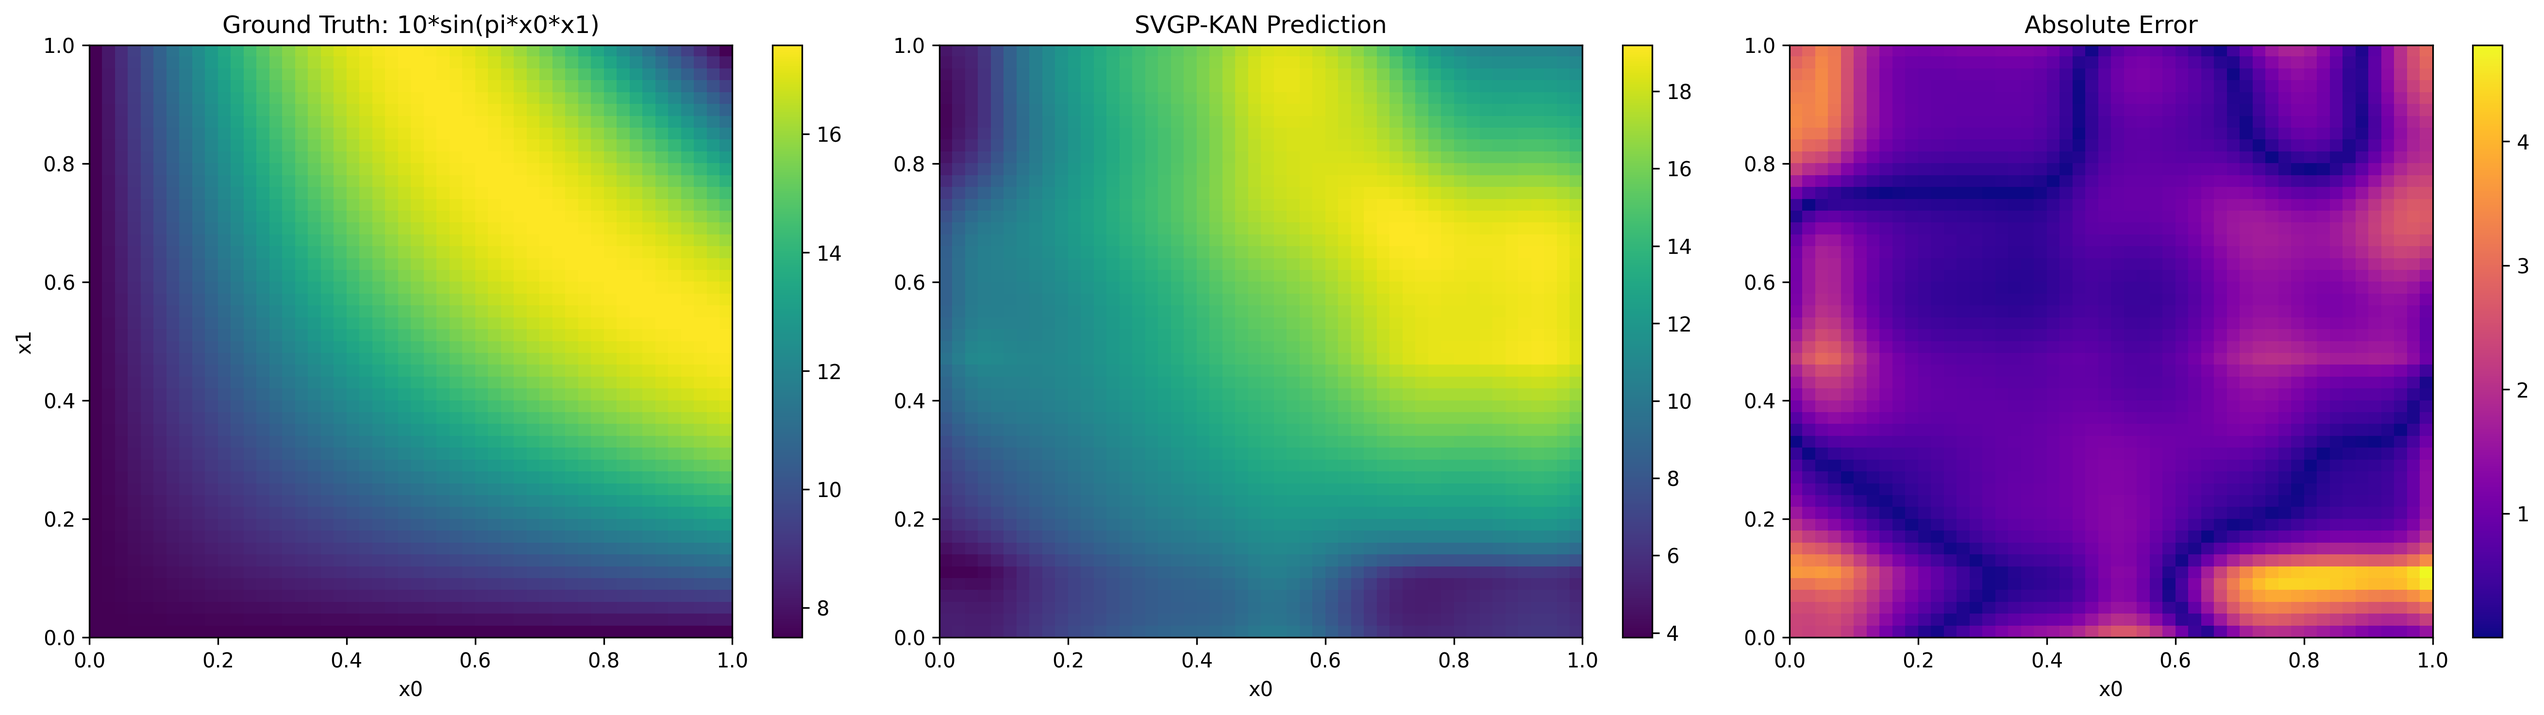
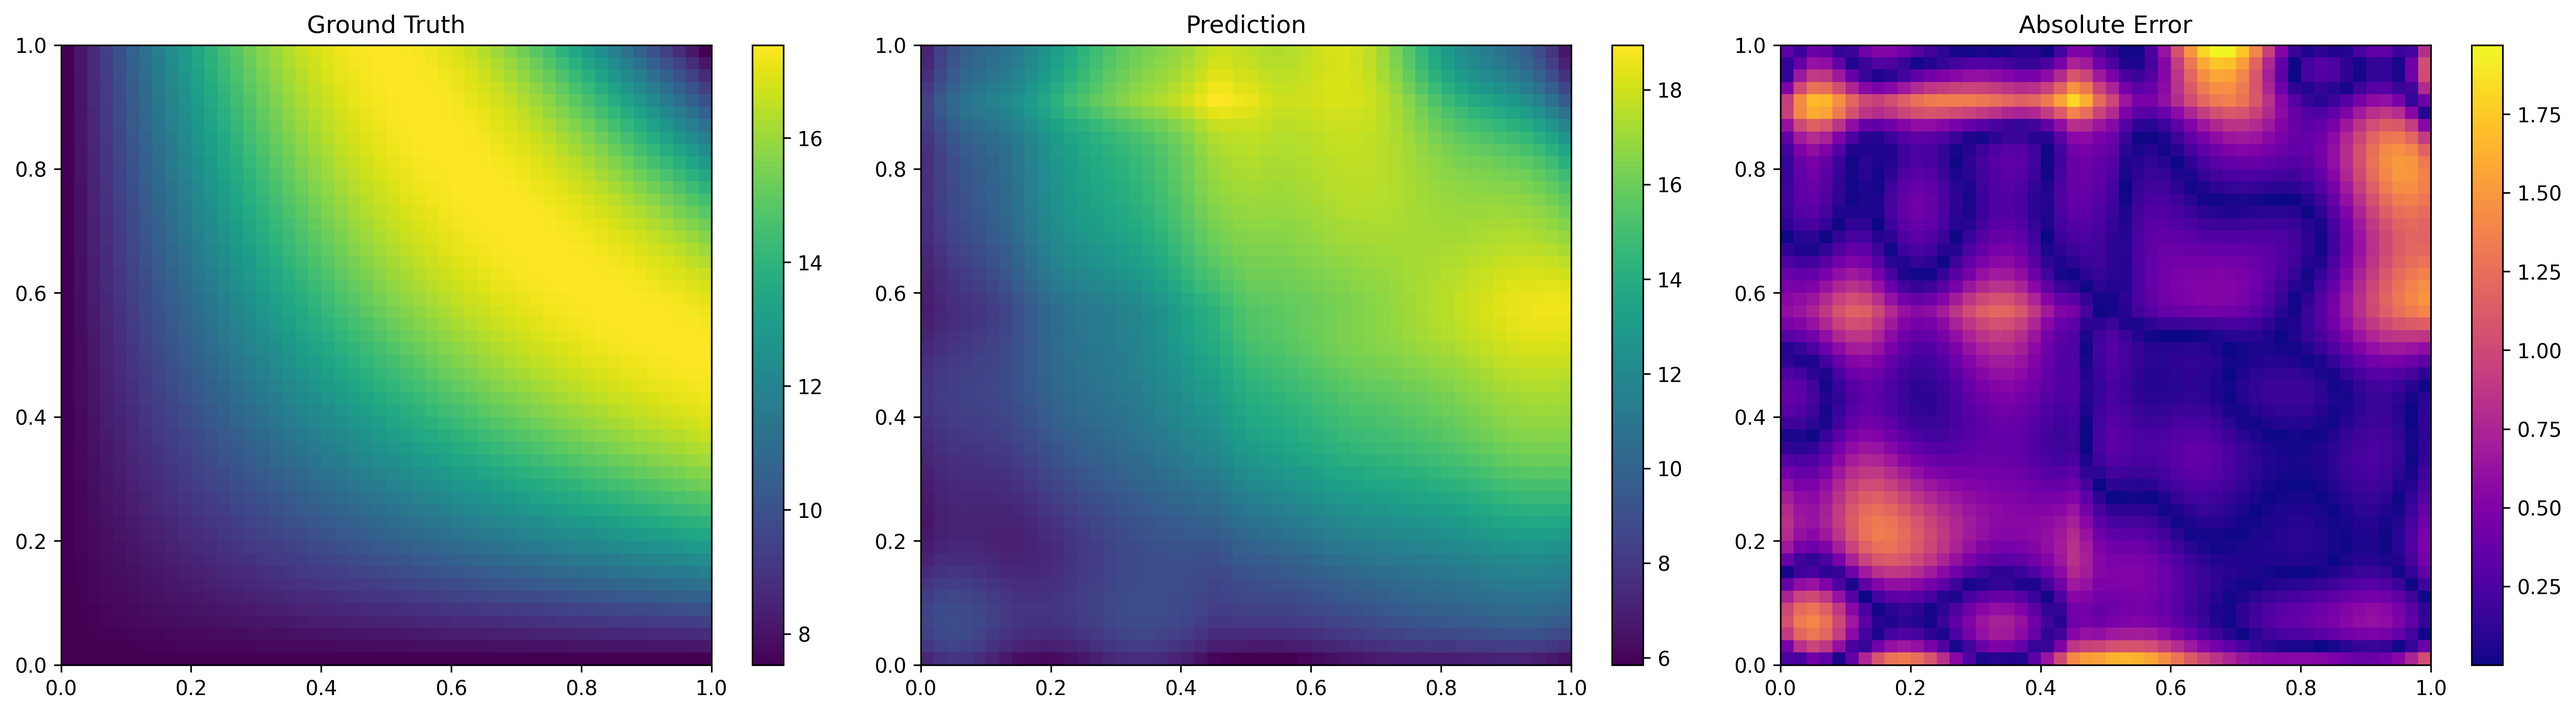
final revision of the benchmark_friedman

diff --git a/examples/benchmark_friedman.py b/examples/benchmark_friedman.py
@@ -1,6 +1,7 @@
 import numpy as np
 import matplotlib.pyplot as plt
 import torch
+import os
 from sklearn.datasets import make_friedman1
 from sklearn.model_selection import train_test_split
 from sklearn.preprocessing import StandardScaler
@@ -11,11 +12,7 @@ from svgp_kan import GPKANRegressor
 # ==========================================
 
 def compute_permutation_importance(model, X_val, y_val):
-    """
-    Computes Feature Importance by measuring error increase when a feature is shuffled.
-    Robust against overfitting because it tests generalization power.
-    """
-    # Baseline Performance
+    """Computes Feature Importance via Permutation."""
     mu_base, _ = model.predict(X_val)
     mse_base = np.mean((mu_base - y_val)**2)
     
@@ -23,79 +20,56 @@ def compute_permutation_importance(model, X_val, y_val):
     X_val_np = X_val if isinstance(X_val, np.ndarray) else X_val.cpu().numpy()
     
     for i in range(X_val.shape[1]):
-        # Shuffle one column to destroy its information
         X_perturbed = X_val_np.copy()
         np.random.shuffle(X_perturbed[:, i])
         
-        # Predict on perturbed data
         mu_pert, _ = model.predict(X_perturbed)
         mse_pert = np.mean((mu_pert - y_val)**2)
         
-        # Importance = Drop in Accuracy
-        # If > 0, the feature was useful. If <= 0, it was noise.
         importances.append(max(0, mse_pert - mse_base))
         
     return np.array(importances)
 
-def plot_diagnostics(model, X_test, y_test, importances, rmse):
-    """Generates and saves publication-quality diagnostic figures."""
+def plot_diagnostics(model, X_test, y_test, importances, rmse, save_dir="."):
+    """Generates diagnostic plots."""
+    print(f"Generating plots in {save_dir}...")
     
-    print("Generating diagnostic plots...")
-    
-    # --- Plot 1: Feature Importance ---
+    # 1. Feature Importance
     plt.figure(figsize=(10, 6), dpi=300)
-    # Ground Truth: 0-4 are signal, 5-9 are noise
     colors = ['#2ca02c' if i < 5 else '#d62728' for i in range(10)]
-    
-    bars = plt.bar(range(10), importances, color=colors, alpha=0.8, edgecolor='black')
+    plt.bar(range(10), importances, color=colors, alpha=0.8, edgecolor='black')
     plt.axhline(0, color='black', linewidth=0.8)
-    
-    # Labeling
-    plt.xlabel("Input Feature Index")
-    plt.ylabel("Importance (MSE Increase upon Permutation)")
-    plt.title(f"Scientific Discovery: Feature Relevance | Test RMSE: {rmse:.3f}")
+    plt.xlabel("Feature Index")
+    plt.ylabel("Importance (MSE Increase)")
+    plt.title(f"Feature Relevance | Test RMSE: {rmse:.3f}")
     plt.xticks(range(10))
-    
-    # Legend
-    from matplotlib.patches import Patch
-    legend_elements = [Patch(facecolor='#2ca02c', label='True Signal (Features 0-4)'),
-                       Patch(facecolor='#d62728', label='True Noise (Features 5-9)')]
-    plt.legend(handles=legend_elements)
-    
     plt.grid(axis='y', alpha=0.3)
-    plt.savefig("examples/friedman_feature_importance.png", bbox_inches='tight')
+    plt.savefig(os.path.join(save_dir, "examples/friedman_feature_importance.png"), bbox_inches='tight')
     plt.close()
 
-    # --- Plot 2: Regression Fit ---
-    mu, std = model.predict(X_test, include_likelihood=True) # Include noise for calibration check
-    
+    # 2. Regression Fit
+    mu, std = model.predict(X_test, include_likelihood=True)
     fig, ax = plt.subplots(1, 2, figsize=(14, 6), dpi=300)
     
-    # Scatter
     subset = np.random.choice(len(y_test), min(100, len(y_test)), replace=False)
     ax[0].errorbar(y_test.flatten()[subset], mu.flatten()[subset], 
-                   yerr=std.flatten()[subset]*2, fmt='o', alpha=0.5, color='blue', label='Predictions (95% CI)')
-    ax[0].plot([y_test.min(), y_test.max()], [y_test.min(), y_test.max()], 'r--', lw=2, label='Perfect Fit')
-    ax[0].set_xlabel("True Value")
-    ax[0].set_ylabel("Predicted Value")
+                   yerr=std.flatten()[subset]*2, fmt='o', alpha=0.5, color='blue', label='Preds (95% CI)')
+    ax[0].plot([y_test.min(), y_test.max()], [y_test.min(), y_test.max()], 'r--', lw=2)
     ax[0].set_title("Regression Accuracy")
     ax[0].legend()
     ax[0].grid(True, alpha=0.3)
     
-    # Residuals
     residuals = y_test.flatten() - mu.flatten()
     ax[1].scatter(mu.flatten(), residuals, alpha=0.5, color='purple')
     ax[1].axhline(0, color='black', linestyle='--')
-    ax[1].set_xlabel("Predicted Value")
-    ax[1].set_ylabel("Residual (True - Pred)")
     ax[1].set_title("Residual Analysis")
     ax[1].grid(True, alpha=0.3)
     
     plt.tight_layout()
-    plt.savefig("examples/friedman_regression_fit.png", bbox_inches='tight')
+    plt.savefig(os.path.join(save_dir, "examples/friedman_regression_fit.png"), bbox_inches='tight')
     plt.close()
 
-    # --- Plot 3: Discovery Scan (Univariate Shapes) ---
+    # 3. Discovery Scan
     scan_grid = np.linspace(-2, 2, 100)
     zeros = np.zeros((100, 10)) 
     
@@ -105,8 +79,6 @@ def plot_diagnostics(model, X_test, y_test, importances, rmse):
     for i in range(10):
         X_scan = zeros.copy()
         X_scan[:, i] = scan_grid
-        
-        # Predict pure function (exclude noise) to see shape clearly
         mu_scan, std_scan = model.predict(X_scan, include_likelihood=False)
         
         ax = axes[i]
@@ -123,87 +95,63 @@ def plot_diagnostics(model, X_test, y_test, importances, rmse):
         ax.set_title(f"Feature {i} {status}")
         ax.set_ylim(-3, 3) 
         ax.grid(True, alpha=0.3)
-        
-        # Visual cue for pruned features
-        if not is_signal:
-            ax.set_facecolor('#fff5f5') 
+        if not is_signal: ax.set_facecolor('#fff5f5') 
             
-    plt.suptitle("Learned Functional Shapes (Discovery Scan)", fontsize=16)
+    plt.suptitle("Learned Functional Shapes", fontsize=16)
     plt.tight_layout()
-    plt.savefig("examples/friedman_learned_functions.png", bbox_inches='tight')
+    plt.savefig(os.path.join(save_dir, "examples/friedman_learned_functions.png"), bbox_inches='tight')
     plt.close()
 
-def plot_interaction_analysis(model, scaler_x, scaler_y):
-    """Visualizes the x0*x1 interaction surface."""
+def plot_interaction_analysis(model, scaler_x, scaler_y, save_dir="."):
+    """Visualizes x0*x1 interaction."""
     print("Generating Interaction Surface...")
     res = 50
     x0_grid = np.linspace(0, 1, res)
     x1_grid = np.linspace(0, 1, res)
     X0, X1 = np.meshgrid(x0_grid, x1_grid)
     
-    # Create input batch (fix others to 0.5)
     X_raw = np.ones((res*res, 10)) * 0.5
     X_raw[:, 0] = X0.ravel()
     X_raw[:, 1] = X1.ravel()
     
-    # Transform to model space
     X_input = scaler_x.transform(X_raw)
-    
-    # Predict
     mu_inter, _ = model.predict(X_input, include_likelihood=False)
-    
-    # Transform back to real units
     Z_pred = scaler_y.inverse_transform(mu_inter).reshape(res, res)
     
-    # Ground Truth: y = 10sin(pi*x0*x1) + Constants
-    # Constants from other fixed features (at 0.5): 
-    # 20*(0.5-0.5)^2 + 10*0.5 + 5*0.5 = 7.5
     Z_true = 10 * np.sin(np.pi * X0 * X1) + 7.5
     
-    # --- Plotting ---
     fig, axes = plt.subplots(1, 3, figsize=(18, 5), dpi=300)
-    
     extent = [0, 1, 0, 1]
     
-    # 1. Ground Truth
     im0 = axes[0].imshow(Z_true, extent=extent, origin='lower', cmap='viridis', aspect='auto')
-    axes[0].set_title("Ground Truth: 10*sin(pi*x0*x1)")
-    axes[0].set_xlabel("x0")
-    axes[0].set_ylabel("x1")
+    axes[0].set_title("Ground Truth")
     plt.colorbar(im0, ax=axes[0])
     
-    # 2. Prediction
     im1 = axes[1].imshow(Z_pred, extent=extent, origin='lower', cmap='viridis', aspect='auto')
-    axes[1].set_title("SVGP-KAN Prediction")
-    axes[1].set_xlabel("x0")
+    axes[1].set_title("Prediction")
     plt.colorbar(im1, ax=axes[1])
     
-    # 3. Error
     err = np.abs(Z_true - Z_pred)
     im2 = axes[2].imshow(err, extent=extent, origin='lower', cmap='plasma', aspect='auto')
     axes[2].set_title("Absolute Error")
-    axes[2].set_xlabel("x0")
     plt.colorbar(im2, ax=axes[2])
     
     plt.tight_layout()
-    plt.savefig("examples/friedman_interaction_surface.png", bbox_inches='tight')
+    plt.savefig(os.path.join(save_dir, "examples/friedman_interaction_surface.png"), bbox_inches='tight')
     plt.close()
 
 # ==========================================
-# Main Script
+# Main Script (Robust 5-Trial Run)
 # ==========================================
 
-def main():
-    print("=== Friedman #1 Benchmark (Final Publication Run) ===")
+def run_single_trial(seed):
+    """Runs one complete training cycle."""
+    np.random.seed(seed)
+    torch.manual_seed(seed)
     
-    # 1. Setup Data
-    np.random.seed(42)
-    torch.manual_seed(42)
-    
-    X, y = make_friedman1(n_samples=1000, n_features=10, noise=1.0, random_state=42)
+    X, y = make_friedman1(n_samples=1000, n_features=10, noise=1.0, random_state=seed)
     y = y.reshape(-1, 1)
     
-    # Calculate Noise Target for Stability
     target_noise = 1.0 / np.var(y)
     
     scaler_x = StandardScaler().fit(X)
@@ -211,81 +159,80 @@ def main():
     X_scaled = scaler_x.transform(X)
     y_scaled = scaler_y.transform(y)
     
-    print(f"Target Scaled Noise Variance: {target_noise:.4f}")
+    X_train, X_test, y_train, y_test = train_test_split(X_scaled, y_scaled, test_size=0.2, random_state=seed)
     
-    X_train, X_test, y_train, y_test = train_test_split(X_scaled, y_scaled, test_size=0.2, random_state=42)
+    model = GPKANRegressor(hidden_layers=[10, 10, 1], kernel='rbf', num_inducing=50, device='cpu')
     
-    # 2. Initialize Model
-    # 50 Inducing points are critical for capturing the Sine wave and Interaction
-    model = GPKANRegressor(
-        hidden_layers=[10, 10, 1], 
-        kernel='rbf', 
-        num_inducing=50, 
-        device='cpu'
-    )
+    # Phase 1: Discovery
+    model.fit(X_train, y_train, epochs=2000, lr=0.03, sparsity_weight=0.0, 
+              noise_lower_bound=target_noise * 0.95, verbose=False)
     
-    # 3. Phase 1: Unconstrained Training (Discovery)
-    # We use NO sparsity here to let the model find the complex interaction signal.
-    # We rely on the noise_lower_bound to prevent overfitting.
-    print("\n[Phase 1] Training (Discovery)...")
-    model.fit(
-        X_train, y_train, 
-        epochs=2000, 
-        lr=0.03,
-        sparsity_weight=0.0, 
-        noise_lower_bound=target_noise * 0.95, # Strict noise floor
-        verbose=True
-    )
-    
-    # 4. Phase 2: Identification (Permutation Importance)
-    print("\n[Phase 2] Identifying Signal vs Noise...")
+    # Phase 2: Permutation
     importances = compute_permutation_importance(model, X_test, y_test)
-    
-    # Normalize
     importances = np.maximum(importances, 0)
-    imp_norm = importances / importances.max()
+    imp_norm = importances / (importances.max() + 1e-6)
     
-    # Identify survivors (> 5% impact)
     features_to_keep = [i for i in range(10) if imp_norm[i] > 0.05]
     
-    print("-" * 40)
-    print(f"Detected Signal Features: {features_to_keep}")
-    print(f"Ground Truth Features:    [0, 1, 2, 3, 4]")
-    print("-" * 40)
-
-    # 5. Phase 3: Refinement (Hard Pruning)
-    print(f"\n[Phase 3] Refinement (Pruning Noise Features)...")
-    
-    # Manually kill the variances of pruned features
+    # Phase 3: Refinement
     with torch.no_grad():
         for i in range(10):
             if i not in features_to_keep:
-                # model.input_gates[i] = 0.0  <-- REMOVED THIS LINE
-                model.model.layers[0].log_variance[:, i] = -10.0 # Hard kill variance
+                model.model.layers[0].log_variance[:, i] = -10.0
     
-    # Fine-tune the survivors
-    model.fit(
-        X_train, y_train, 
-        epochs=500, 
-        lr=0.01,
-        sparsity_weight=0.0, 
-        noise_lower_bound=target_noise,
-        verbose=False
-    )
-
-    # 6. Final Evaluation & Plots
-    mu, std = model.predict(X_test)
+    model.fit(X_train, y_train, epochs=500, lr=0.01, sparsity_weight=0.0, 
+              noise_lower_bound=target_noise, verbose=False)
+    
+    mu, _ = model.predict(X_test)
     rmse = np.sqrt(np.mean((mu - y_test)**2))
-    rmse_orig = rmse * scaler_y.scale_[0]
     
-    print(f"\nFinal Test RMSE (Scaled): {rmse:.4f}")
-    print(f"Final Test RMSE (Original Units): {rmse_orig:.4f}")
-    print("\nGenerating Plots...")
+    return {
+        'rmse': rmse,
+        'features': features_to_keep,
+        'model': model,
+        'data': (X_test, y_test, scaler_x, scaler_y),
+        'importances': importances
+    }
+
+def main():
+    print("=== Friedman #1 Benchmark (5-Trial Robustness Test) ===")
     
-    plot_diagnostics(model, X_test, y_test, imp_norm, rmse)
-    plot_interaction_analysis(model, scaler_x, scaler_y)
+    n_trials = 5
+    results = []
+    feature_counts = np.zeros(10)
     
-    print("Done! Plots saved to current directory.")
+    for i in range(n_trials):
+        print(f"\n--- Trial {i+1}/{n_trials} ---")
+        res = run_single_trial(seed=42+i)
+        results.append(res)
+        
+        print(f"RMSE: {res['rmse']:.4f} | Features: {res['features']}")
+        for f in res['features']:
+            feature_counts[f] += 1
+
+    # --- Final Stats ---
+    rmses = [r['rmse'] for r in results]
+    print("\n=== Robustness Report ===")
+    print(f"Mean RMSE: {np.mean(rmses):.4f} +/- {np.std(rmses):.4f}")
+    
+    print("\nFeature Stability:")
+    print(f"{'Feat':<5} | {'Truth':<5} | {'Selection Rate':<15} | {'Status'}")
+    print("-" * 50)
+    ground_truth = [1, 1, 1, 1, 1, 0, 0, 0, 0, 0]
+    for i in range(10):
+        rate = feature_counts[i] / n_trials
+        status = "✅ Robust" if (rate > 0.8 and ground_truth[i]) or (rate < 0.2 and not ground_truth[i]) else "⚠ Unstable"
+        print(f"{i:<5} | {ground_truth[i]:<5} | {rate*100:.0f}%            | {status}")
+
+    # --- Generate Plots from Best Model ---
+    best_idx = np.argmin(rmses)
+    print(f"\nGenerating plots from best trial (Trial {best_idx+1})...")
+    best_res = results[best_idx]
+    X_test, y_test, sx, sy = best_res['data']
+    
+    plot_diagnostics(best_res['model'], X_test, y_test, best_res['importances'], best_res['rmse'])
+    plot_interaction_analysis(best_res['model'], sx, sy)
+    print("Done.")
 
 if __name__ == "__main__":
     main()
